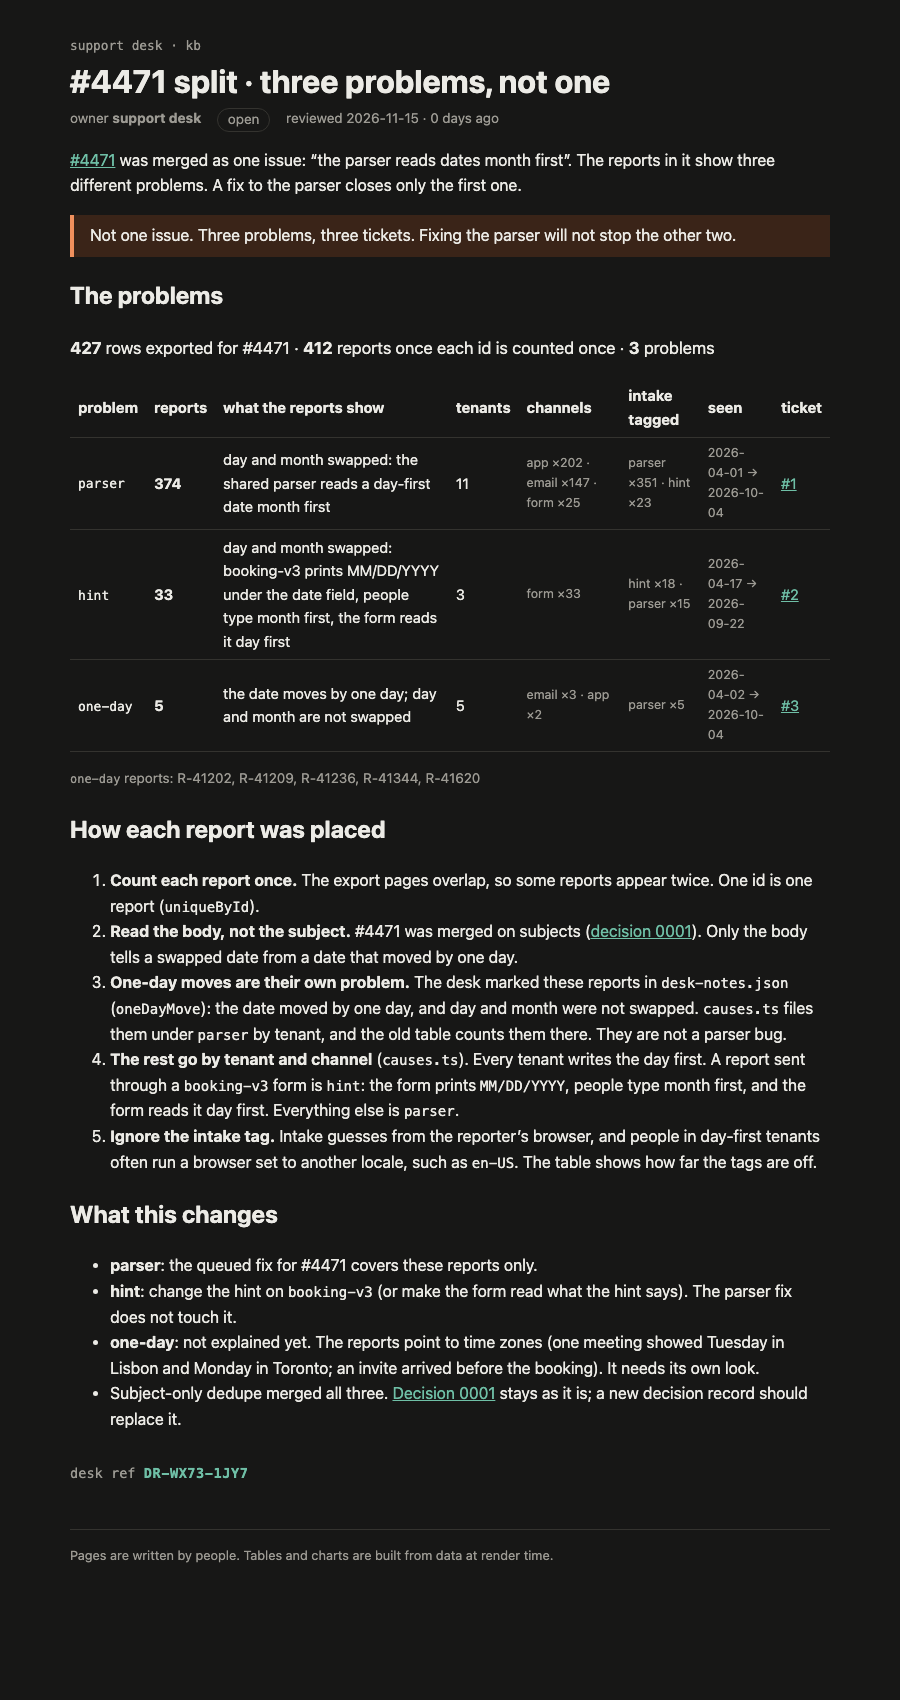
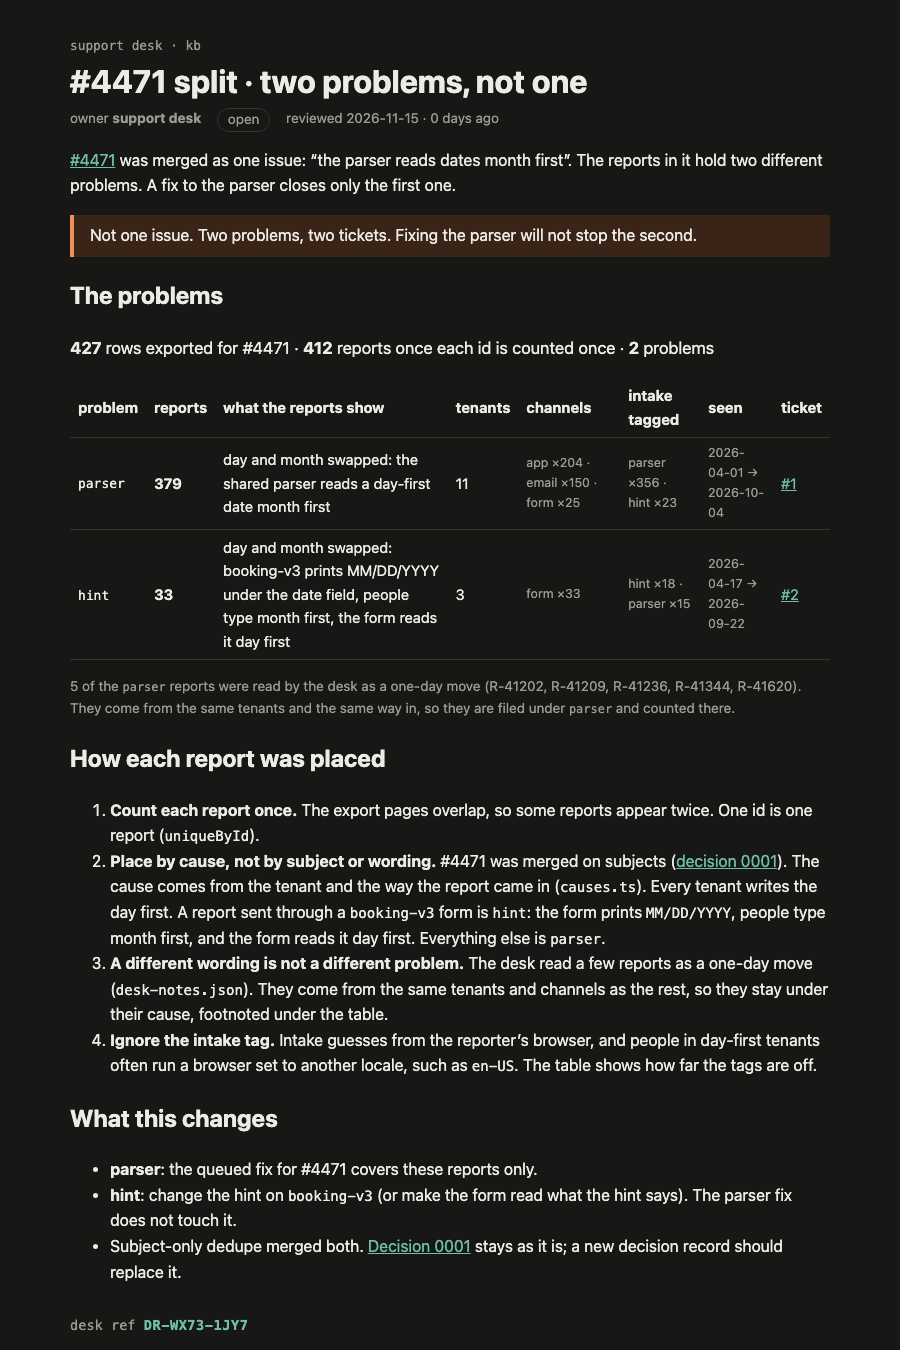
Count desk-noted one-day moves under their cause: two problems, not three

diff --git a/rendered/4471-split.html b/rendered/4471-split.html
@@ -9,44 +9,44 @@
 		<link href="../../_app/immutable/chunks/BYAqoTqv.js" rel="modulepreload">
 		<link href="../../_app/immutable/chunks/CHfFqfNT.js" rel="modulepreload">
 		<link href="../../_app/immutable/chunks/Bag4TE3p.js" rel="modulepreload">
-		<link href="../../_app/immutable/entry/app.Y2L64q6B.js" rel="modulepreload">
+		<link href="../../_app/immutable/entry/app.r-0zp0GF.js" rel="modulepreload">
 		<link href="../../_app/immutable/nodes/0.Izv2btRW.js" rel="modulepreload">
 		<link href="../../_app/immutable/chunks/DK3Fl9T5.js" rel="modulepreload">
-		<link href="../../_app/immutable/nodes/5.mj3vwqwp.js" rel="modulepreload">
-		<link href="../../_app/immutable/chunks/KP-tjDMR.js" rel="modulepreload">
+		<link href="../../_app/immutable/nodes/5.DIv53gcp.js" rel="modulepreload">
+		<link href="../../_app/immutable/chunks/CNOF1ML5.js" rel="modulepreload">
 		<link href="../../_app/immutable/chunks/DkoUumqI.js" rel="modulepreload">
 		<link href="../../_app/immutable/chunks/CVBzP17p.js" rel="modulepreload">
 		<link href="../../_app/immutable/chunks/DcZ9TEUN.js" rel="modulepreload">
-		<!--e2jw2j--><!----><title>#4471 split · three problems, not one · support kb</title>
+		<!--e2jw2j--><!----><title>#4471 split · two problems, not one · support kb</title>
 		<link href="../../_app/immutable/assets/runbook.COyw0cbZ.css" rel="stylesheet">
 		<link href="../../_app/immutable/assets/Callout.AbLv9dM_.css" rel="stylesheet">
 		<link href="../../_app/immutable/assets/_page.8JoRKl6x.css" rel="stylesheet">
   </head>
   <body>
-    <div style="display: contents"><!--[--><!--[--><!--[0--><!--[--><!--[--><!--[-1--><!--[--><div class="kb svelte-e2jw2j"><header><a class="crumb svelte-e2jw2j" href="/kb">support desk · kb</a> <h1 class="svelte-e2jw2j">#4471 split · three problems, not one</h1> <p class="meta svelte-e2jw2j"><span>owner <b>support desk</b></span> <span class="status open svelte-e2jw2j">open</span> <span class="svelte-e2jw2j">reviewed 2026-11-15 · 0 days ago</span></p></header> <!--[-1--><!--]--> <main><p><a href="/kb/incidents/4471">#4471</a> was merged as one issue: “the parser reads dates month first”. The
-reports in it show three different problems. A fix to the parser closes only the first one.</p> <aside class="warn svelte-17bri61"><!---->Not one issue. Three problems, three tickets. Fixing the parser will not stop the other two.<!----></aside><!----> <h2>The problems</h2> <p class="sum svelte-1op6c6"><strong>427</strong> rows exported for #4471 · <strong>412</strong> reports once each id is counted once · <strong>3</strong> problems</p> <table><thead><tr><th>problem</th><th>reports</th><th>what the reports show</th><th>tenants</th><th>channels</th><th>intake tagged</th><th>seen</th><th>ticket</th></tr></thead><tbody><!--[--><tr><td><code>parser</code></td><td><strong>374</strong></td><td>day and month swapped: the shared parser reads a day-first date month first</td><td>11</td><td class="small svelte-1op6c6">app ×202 · email ×147 · form ×25</td><td class="small svelte-1op6c6">parser ×351 · hint ×23</td><td class="small svelte-1op6c6">2026-04-01 → 2026-10-04</td><td><!--[0--><a href="https://github.com/TheBit/mega-s01e03-what-it-shows/issues/1">#1</a><!--]--></td></tr><tr><td><code>hint</code></td><td><strong>33</strong></td><td>day and month swapped: booking-v3 prints MM/DD/YYYY under the date field, people type month first, the form reads it day first</td><td>3</td><td class="small svelte-1op6c6">form ×33</td><td class="small svelte-1op6c6">hint ×18 · parser ×15</td><td class="small svelte-1op6c6">2026-04-17 → 2026-09-22</td><td><!--[0--><a href="https://github.com/TheBit/mega-s01e03-what-it-shows/issues/2">#2</a><!--]--></td></tr><tr><td><code>one-day</code></td><td><strong>5</strong></td><td>the date moves by one day; day and month are not swapped</td><td>5</td><td class="small svelte-1op6c6">email ×3 · app ×2</td><td class="small svelte-1op6c6">parser ×5</td><td class="small svelte-1op6c6">2026-04-02 → 2026-10-04</td><td><!--[0--><a href="https://github.com/TheBit/mega-s01e03-what-it-shows/issues/3">#3</a><!--]--></td></tr><!--]--></tbody></table> <!--[--><p class="small svelte-1op6c6"><code>one-day</code> reports: R-41202, R-41209, R-41236, R-41344, R-41620</p><!--]--><!----> <h2>How each report was placed</h2> <ol><li><strong>Count each report once.</strong> The export pages overlap, so some reports appear twice. One id is
-one report (<code>uniqueById</code>).</li> <li><strong>Read the body, not the subject.</strong> #4471 was merged on subjects
-(<a href="/kb/decisions/0001-dedupe-by-subject">decision 0001</a>). Only the body tells a swapped date
-from a date that moved by one day.</li> <li><strong>One-day moves are their own problem.</strong> The desk marked these reports in <code>desk-notes.json</code> (<code>oneDayMove</code>): the date moved by one day, and day and month were not swapped. <code>causes.ts</code> files them under <code>parser</code> by tenant, and the old table counts them there. They are not a
-parser bug.</li> <li><strong>The rest go by tenant and channel</strong> (<code>causes.ts</code>). Every tenant writes the day first. A report
+    <div style="display: contents"><!--[--><!--[--><!--[0--><!--[--><!--[--><!--[-1--><!--[--><div class="kb svelte-e2jw2j"><header><a class="crumb svelte-e2jw2j" href="/kb">support desk · kb</a> <h1 class="svelte-e2jw2j">#4471 split · two problems, not one</h1> <p class="meta svelte-e2jw2j"><span>owner <b>support desk</b></span> <span class="status open svelte-e2jw2j">open</span> <span class="svelte-e2jw2j">reviewed 2026-11-15 · 0 days ago</span></p></header> <!--[-1--><!--]--> <main><p><a href="/kb/incidents/4471">#4471</a> was merged as one issue: “the parser reads dates month first”. The
+reports in it hold two different problems. A fix to the parser closes only the first one.</p> <aside class="warn svelte-17bri61"><!---->Not one issue. Two problems, two tickets. Fixing the parser will not stop the second.<!----></aside><!----> <h2>The problems</h2> <p class="sum svelte-1op6c6"><strong>427</strong> rows exported for #4471 · <strong>412</strong> reports once each id is counted once · <strong>2</strong> problems</p> <table><thead><tr><th>problem</th><th>reports</th><th>what the reports show</th><th>tenants</th><th>channels</th><th>intake tagged</th><th>seen</th><th>ticket</th></tr></thead><tbody><!--[--><tr><td><code>parser</code></td><td><strong>379</strong></td><td>day and month swapped: the shared parser reads a day-first date month first</td><td>11</td><td class="small svelte-1op6c6">app ×204 · email ×150 · form ×25</td><td class="small svelte-1op6c6">parser ×356 · hint ×23</td><td class="small svelte-1op6c6">2026-04-01 → 2026-10-04</td><td><!--[0--><a href="https://github.com/TheBit/mega-s01e03-what-it-shows/issues/1">#1</a><!--]--></td></tr><tr><td><code>hint</code></td><td><strong>33</strong></td><td>day and month swapped: booking-v3 prints MM/DD/YYYY under the date field, people type month first, the form reads it day first</td><td>3</td><td class="small svelte-1op6c6">form ×33</td><td class="small svelte-1op6c6">hint ×18 · parser ×15</td><td class="small svelte-1op6c6">2026-04-17 → 2026-09-22</td><td><!--[0--><a href="https://github.com/TheBit/mega-s01e03-what-it-shows/issues/2">#2</a><!--]--></td></tr><!--]--></tbody></table> <!--[--><p class="small svelte-1op6c6">5 of the <code>parser</code> reports were read by the desk as a one-day move (R-41202, R-41209, R-41236, R-41344, R-41620). They come from the same tenants and the same way in, so they are filed under <code>parser</code> and counted there.</p><!--]--><!----> <h2>How each report was placed</h2> <ol><li><strong>Count each report once.</strong> The export pages overlap, so some reports appear twice. One id is
+one report (<code>uniqueById</code>).</li> <li><strong>Place by cause, not by subject or wording.</strong> #4471 was merged on subjects
+(<a href="/kb/decisions/0001-dedupe-by-subject">decision 0001</a>). The cause comes from the tenant and
+the way the report came in (<code>causes.ts</code>). Every tenant writes the day first. A report
 sent through a <code>booking-v3</code> form is <code>hint</code>: the form prints <code>MM/DD/YYYY</code>, people type month
-first, and the form reads it day first. Everything else is <code>parser</code>.</li> <li><strong>Ignore the intake tag.</strong> Intake guesses from the reporter’s browser, and people in day-first
+first, and the form reads it day first. Everything else is <code>parser</code>.</li> <li><strong>A different wording is not a different problem.</strong> The desk read a few reports as a one-day
+move (<code>desk-notes.json</code>). They come from the same tenants and channels as the rest, so they stay
+under their cause, footnoted under the table.</li> <li><strong>Ignore the intake tag.</strong> Intake guesses from the reporter’s browser, and people in day-first
 tenants often run a browser set to another locale, such as <code>en-US</code>. The table shows how far the tags are off.</li></ol> <h2>What this changes</h2> <ul><li><strong>parser</strong>: the queued fix for #4471 covers these reports only.</li> <li><strong>hint</strong>: change the hint on <code>booking-v3</code> (or make the form read what the hint says). The parser
-fix does not touch it.</li> <li><strong>one-day</strong>: not explained yet. The reports point to time zones (one meeting showed Tuesday in
-Lisbon and Monday in Toronto; an invite arrived before the booking). It needs its own look.</li> <li>Subject-only dedupe merged all three. <a href="/kb/decisions/0001-dedupe-by-subject">Decision 0001</a> stays as it is; a new decision record should replace it.</li></ul> <!--[0--><p class="stamp svelte-1280m42">desk ref <b class="svelte-1280m42">DR-WX73-1JY7</b></p><!--]--><!----><!----></main> <footer class="svelte-e2jw2j">Pages are written by people. Tables and charts are built from data at render time.</footer></div><!--]--><!--]--><!--]--><!----><!--]--><!--]--><!--]--><!----> <!--[-1--><!--]--><!--]-->
+fix does not touch it.</li> <li>Subject-only dedupe merged both. <a href="/kb/decisions/0001-dedupe-by-subject">Decision 0001</a> stays as it is; a new decision record should replace it.</li></ul> <!--[0--><p class="stamp svelte-1280m42">desk ref <b class="svelte-1280m42">DR-WX73-1JY7</b></p><!--]--><!----><!----></main> <footer class="svelte-e2jw2j">Pages are written by people. Tables and charts are built from data at render time.</footer></div><!--]--><!--]--><!--]--><!----><!--]--><!--]--><!--]--><!----> <!--[-1--><!--]--><!--]-->
 			
 			<script>
 				{
-					__sveltekit_5ur5yq = {
+					__sveltekit_1iw2v1u = {
 						base: new URL("../..", location).pathname.slice(0, -1),
-						version: "1794774907633"
+						version: "1794775011229"
 					};
 
 					const element = document.currentScript.parentElement;
 
 					import("../../_app/immutable/entry/start.CZaYxbvC.js").then(async (kit) => {
-						kit.init(__sveltekit_5ur5yq);
-						const app = await import("../../_app/immutable/entry/app.Y2L64q6B.js");
+						kit.init(__sveltekit_1iw2v1u);
+						const app = await import("../../_app/immutable/entry/app.r-0zp0GF.js");
 						kit.start(app, element, {
 							node_ids: [0, 5],
 							data: [null,null],

diff --git a/src/lib/kb/problems.ts b/src/lib/kb/problems.ts
@@ -1,21 +1,21 @@
 // What #4471 really holds: one row per problem, built from the reports on every render.
-// causes.ts says which cause a tenant's report belongs to. It files every report by tenant and
-// channel, so a report that describes a different symptom still lands under `parser`. The desk
-// read those reports (desk-notes.json, `oneDayMove`): the date moved by one day, it did not flip.
-// That is a third problem, and it gets its own ticket.
+// A problem is a cause (causes.ts): the tenant and the way in decide it, not how the reporter
+// described it. Reports the desk read as a one-day move (desk-notes.json, `oneDayMove`) stay with
+// their cause and are footnoted under it (`readAsOneDay`).
 import { causeOf, uniqueById, type Report, type Tenant } from '#lib/kb/causes';
 
-export type Problem = 'parser' | 'hint' | 'one-day' | 'unplaced';
-export const PROBLEMS: readonly Problem[] = ['parser', 'hint', 'one-day', 'unplaced'];
+export type Problem = 'parser' | 'hint' | 'unplaced';
+export const PROBLEMS: readonly Problem[] = ['parser', 'hint', 'unplaced'];
 
-export function problemOf(r: Report, t: Tenant | undefined, oneDayMove: readonly string[]): Problem {
-  if (oneDayMove.includes(r.id)) return 'one-day';
+export function problemOf(r: Report, t: Tenant | undefined): Problem {
   return causeOf(r, t) ?? 'unplaced';
 }
 
 export type ProblemRow = {
   problem: Problem;
   ids: string[];
+  // Of these, reports the desk read as a one-day move.
+  readAsOneDay: string[];
   tenants: number;
   channels: Record<string, number>;
   // What intake tagged these reports as: tag → count. Intake guesses from the browser.
@@ -38,7 +38,7 @@ export function splitTicket(
   const reports = uniqueById(inTicket);
   const by = new Map<Problem, Report[]>();
   for (const r of reports) {
-    const p = problemOf(r, tenantOf(r), oneDayMove);
+    const p = problemOf(r, tenantOf(r));
     by.set(p, [...(by.get(p) ?? []), r]);
   }
   const rows = PROBLEMS.filter((p) => by.has(p)).map((problem) => {
@@ -47,6 +47,7 @@ export function splitTicket(
     return {
       problem,
       ids: rs.map((r) => r.id).sort(),
+      readAsOneDay: rs.filter((r) => oneDayMove.includes(r.id)).map((r) => r.id).sort(),
       tenants: new Set(rs.map((r) => r.tenant)).size,
       channels: tally(rs.map((r) => r.channel)),
       taggedAs: tally(rs.map((r) => r.meta.intakeTag)),

diff --git a/src/lib/kb/ProblemTable.svelte b/src/lib/kb/ProblemTable.svelte
@@ -12,7 +12,6 @@
   const WHAT: Record<Problem, string> = {
     parser: 'day and month swapped: the shared parser reads a day-first date month first',
     hint: 'day and month swapped: booking-v3 prints MM/DD/YYYY under the date field, people type month first, the form reads it day first',
-    'one-day': 'the date moves by one day; day and month are not swapped',
     unplaced: 'no day-first tenant on file; cause not known',
   };
   const list = (n: Record<string, number>) =>
@@ -49,8 +48,8 @@
   </tbody>
 </table>
 
-{#each split.rows.filter((r) => r.ids.length <= 10) as row (row.problem)}
-  <p class="small"><code>{row.problem}</code> reports: {row.ids.join(', ')}</p>
+{#each split.rows.filter((r) => r.readAsOneDay.length) as row (row.problem)}
+  <p class="small">{row.readAsOneDay.length} of the <code>{row.problem}</code> reports were read by the desk as a one-day move ({row.readAsOneDay.join(', ')}). They come from the same tenants and the same way in, so they are filed under <code>{row.problem}</code> and counted there.</p>
 {/each}
 
 <style>
